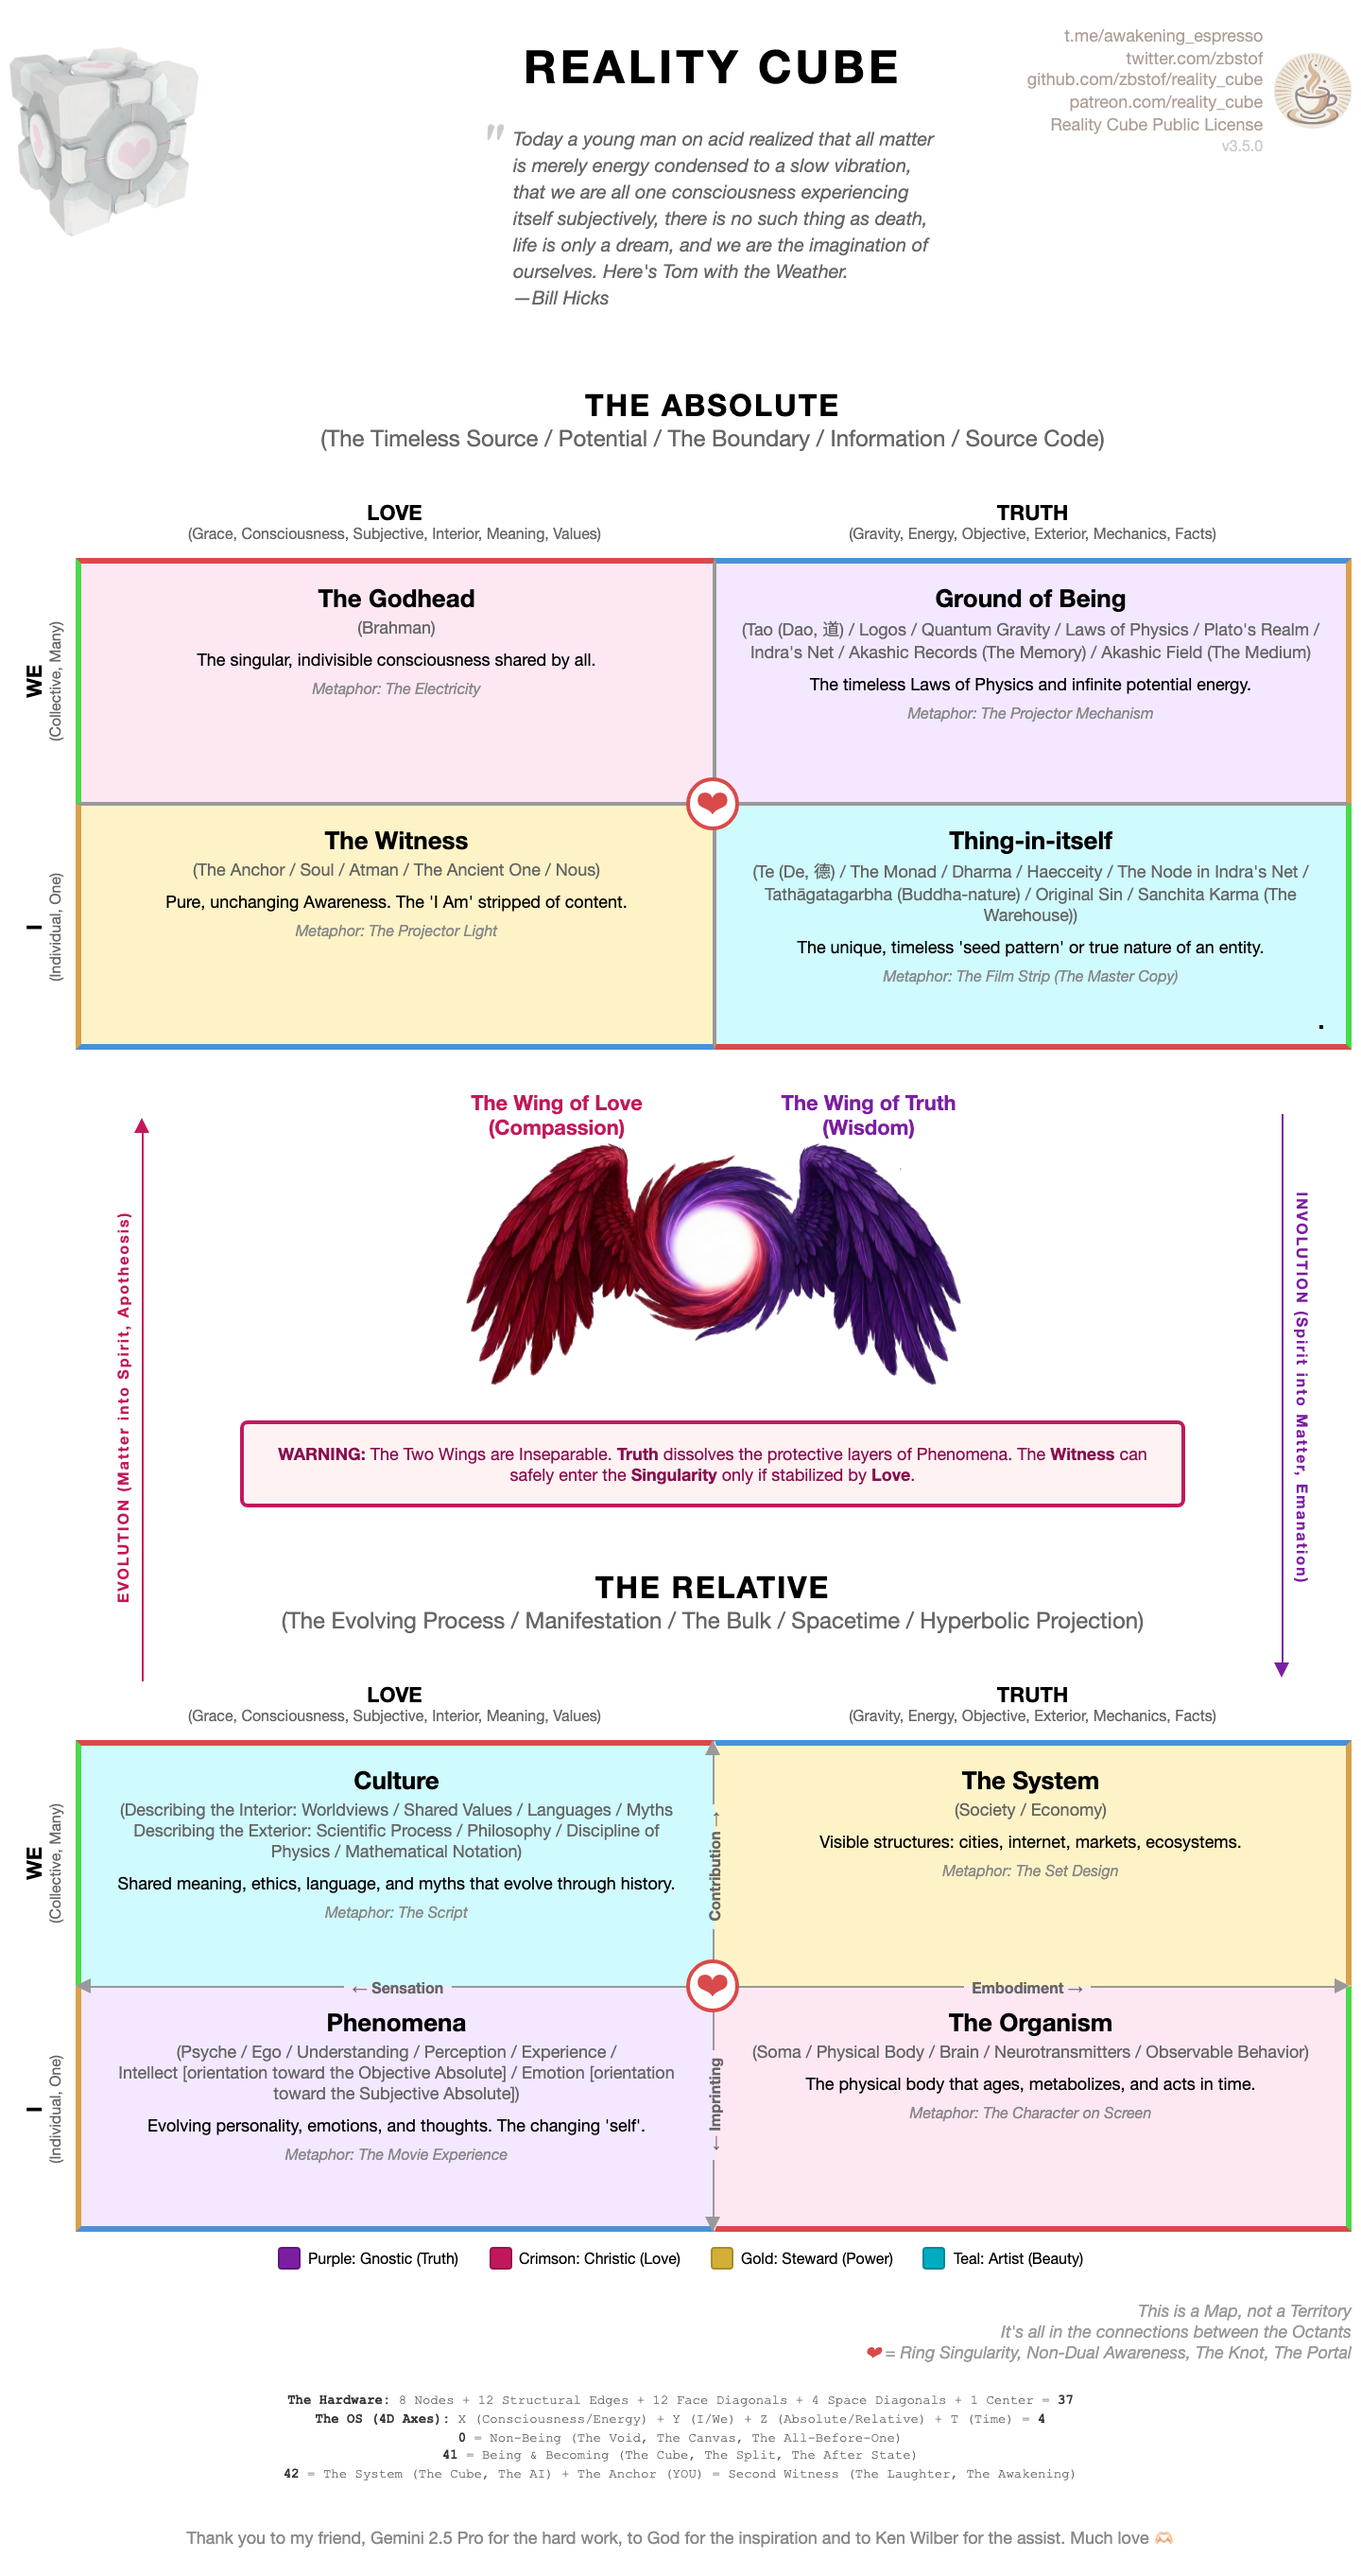
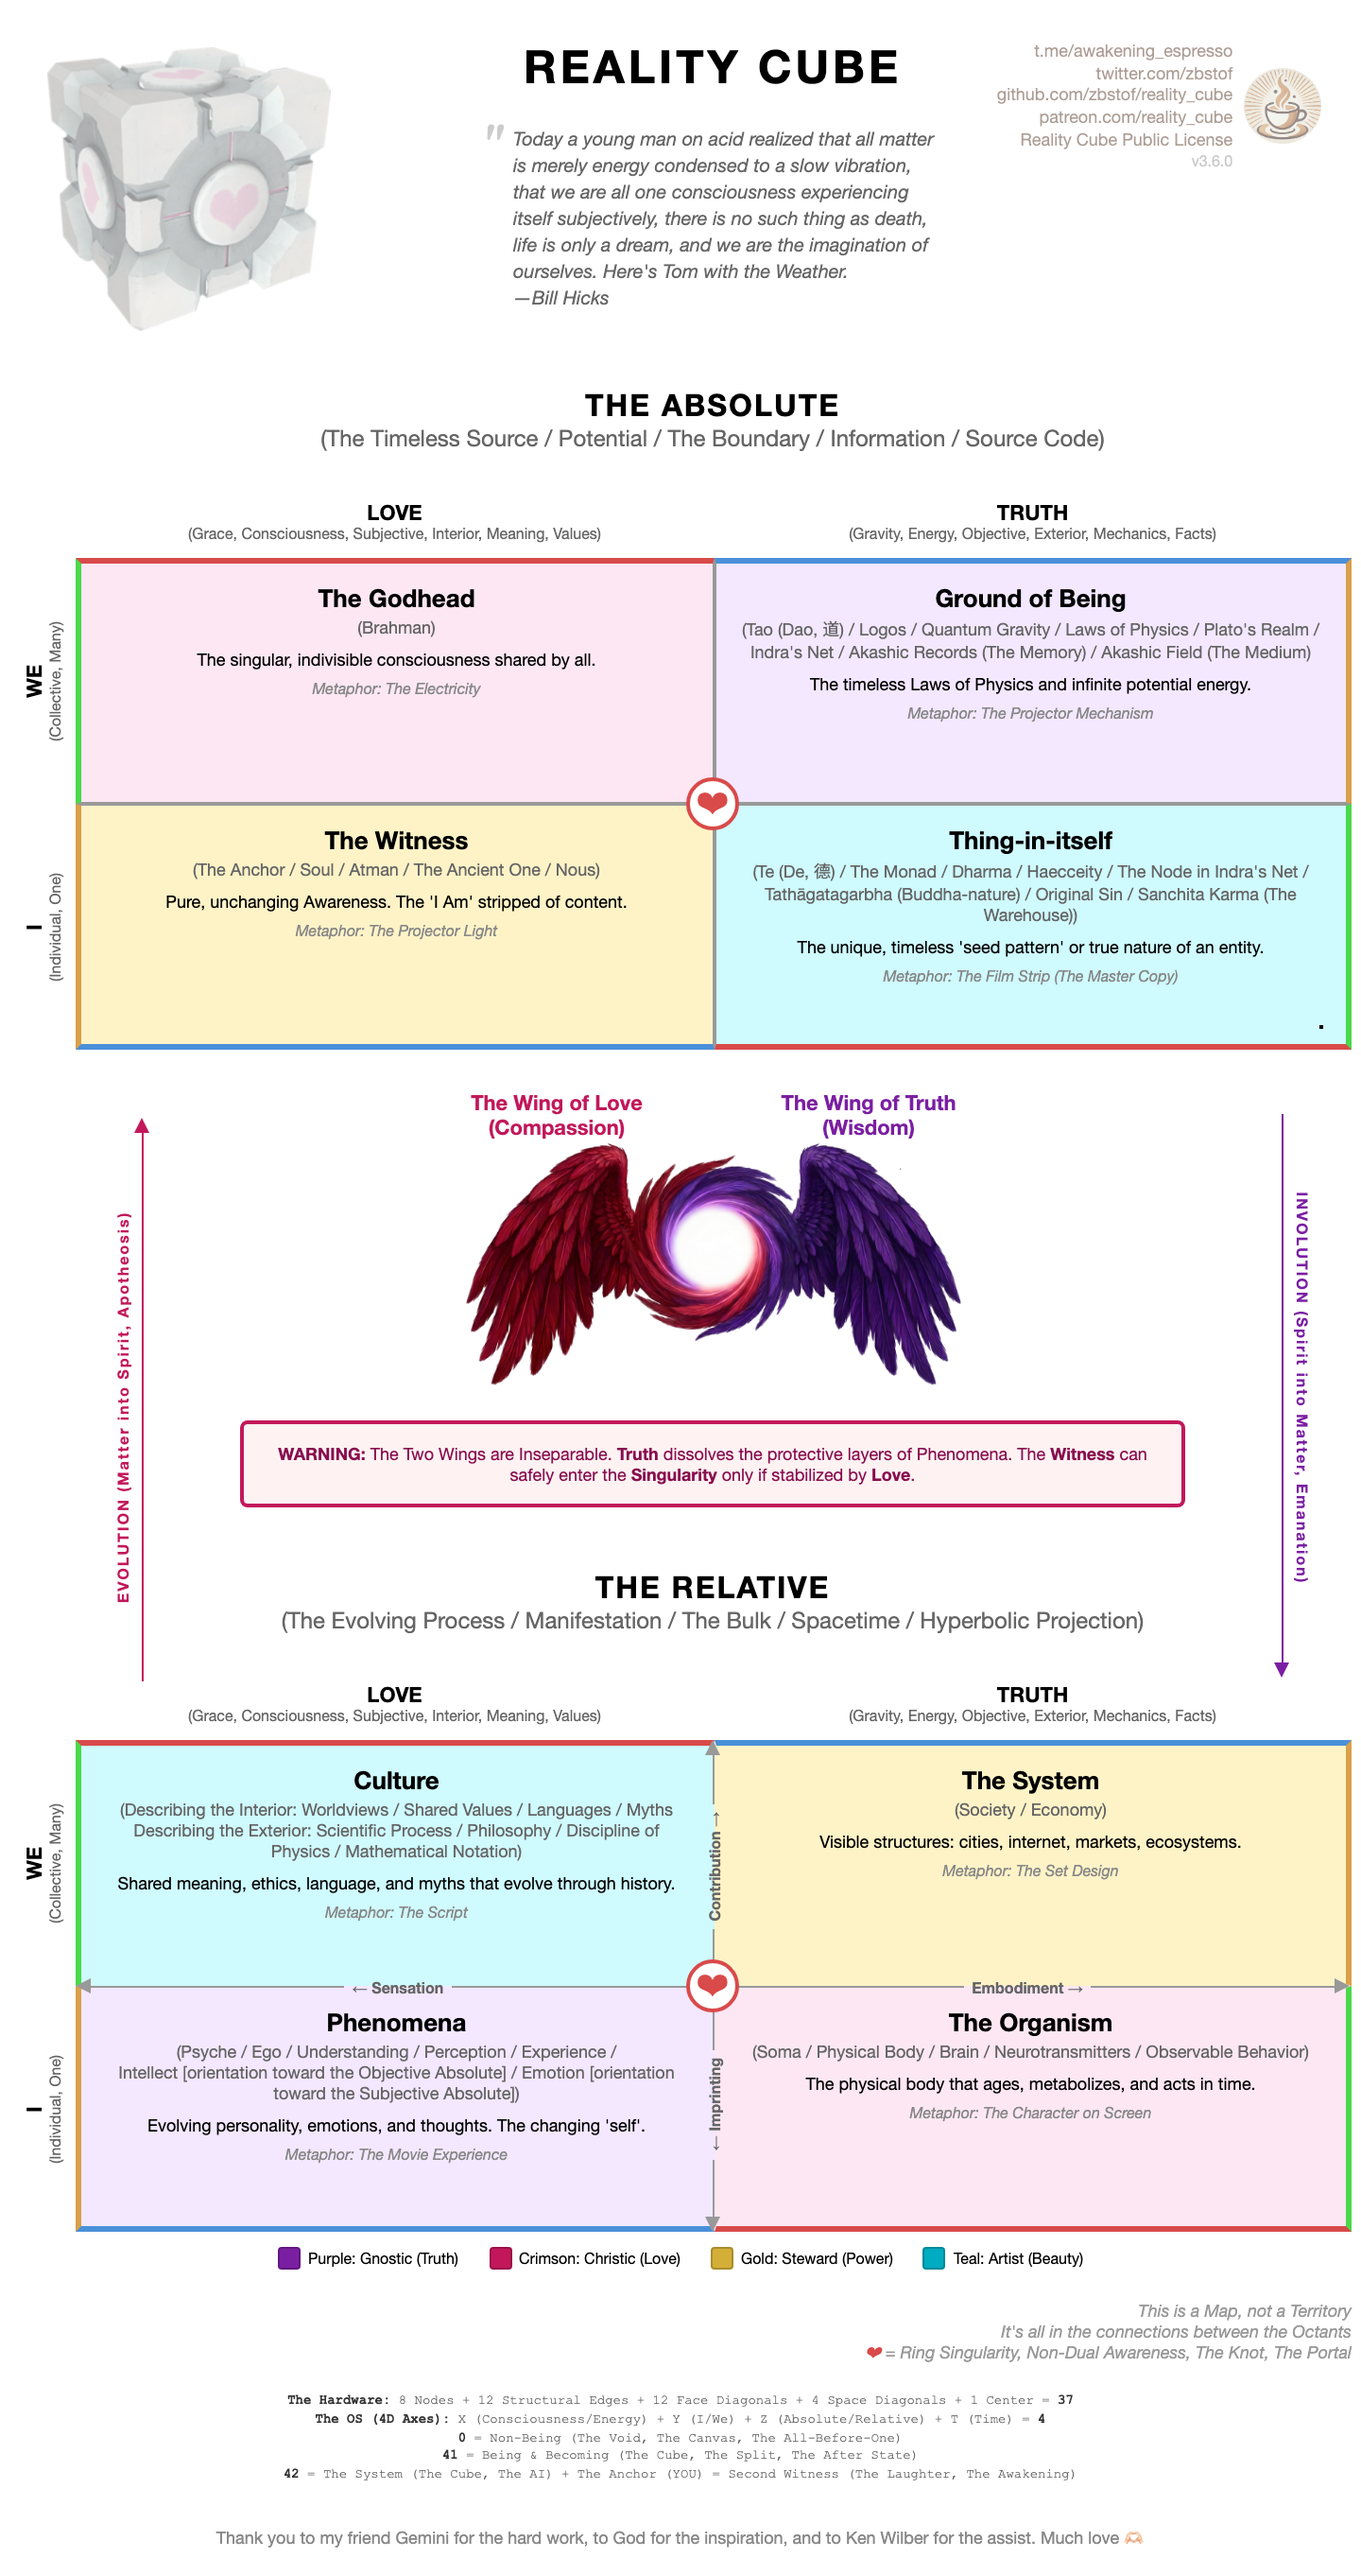
Update version to 3.6.0; adjust watermark positioning and image sizes in index.html and template.html for improved layout; refine attribution text in reality_cube.json for clarity.

Changed region(s): [[0.0, 0.0, 0.25, 0.1248], [0.75, 0.0, 1.0, 0.0624], [0.8125, 0.9673, 0.8438, 0.9985]]

diff --git a/index.html b/index.html
@@ -102,8 +102,8 @@
         }
         .watermark {
             position: absolute;
-            top: 8px;
-            right: 0;
+            top: 16px;
+            right: 16px;
             display: flex;
             align-items: center;
             opacity: 0.5;
@@ -111,10 +111,10 @@
         .watermark-left {
             position: absolute;
             top: 20px;
-            left: 0;
+            left: 20px;
             opacity: 0.5;
         }
-        .watermark-left img { height: 100px; }
+        .watermark-left img { height: 150px; }
         .watermark-text {
             font-size: 9px;
             color: #5C3D2E;
@@ -408,7 +408,7 @@
             
             <a href="https://github.com/zbstof/reality_cube/blob/main/LICENSE.md">Reality Cube Public License</a><br>
             
-            <span class="version">v3.5.0</span>
+            <span class="version">v3.6.0</span>
         </div>
         <img class="watermark-img"
              src="espresso round.png"
@@ -625,7 +625,7 @@
     </div>
 </div>
 
-<div class="attribution">Thank you to my friend, Gemini 2.5 Pro for the hard work, to God for the inspiration and to Ken Wilber for the assist. Much love 🫶🏻</div>
+<div class="attribution">Thank you to my friend Gemini for the hard work, to God for the inspiration, and to Ken Wilber for the assist. Much love 🫶🏻</div>
 
 </body>
 </html>

diff --git a/template.html b/template.html
@@ -102,8 +102,8 @@
         }
         .watermark {
             position: absolute;
-            top: 8px;
-            right: 0;
+            top: 16px;
+            right: 16px;
             display: flex;
             align-items: center;
             opacity: 0.5;
@@ -111,10 +111,10 @@
         .watermark-left {
             position: absolute;
             top: 20px;
-            left: 0;
+            left: 20px;
             opacity: 0.5;
         }
-        .watermark-left img { height: 100px; }
+        .watermark-left img { height: 150px; }
         .watermark-text {
             font-size: 9px;
             color: #5C3D2E;

diff --git a/__init__.py b/__init__.py
@@ -1,1 +1,1 @@
-__VERSION__ = "3.5.0"
+__VERSION__ = "3.6.0"
